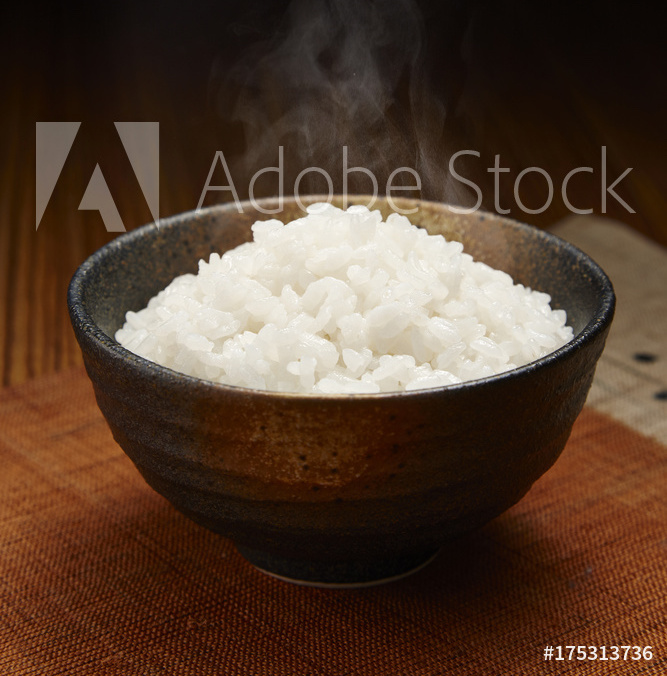
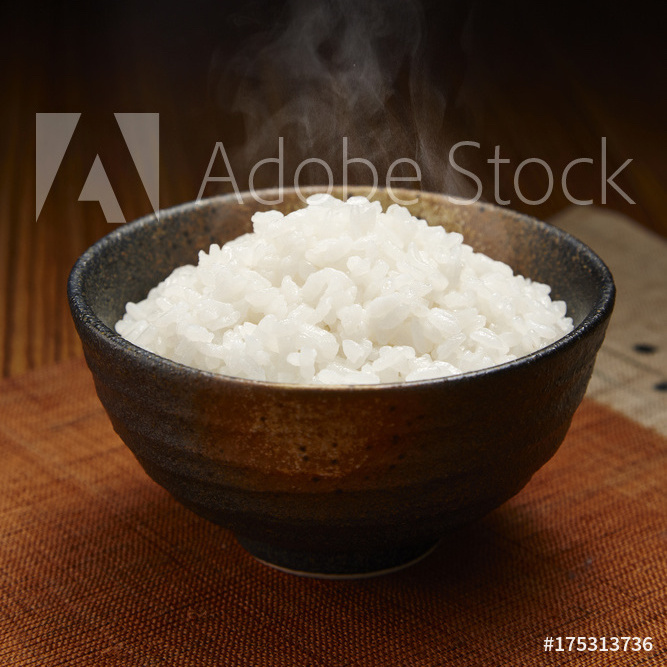
add frame and datetime

diff --git a/pages/index.vue b/pages/index.vue
@@ -1,5 +1,5 @@
 <template>
-  <div id="photoletter">
+  <div id="rice-time">
     <div class="container" v-if="!isGenerated">
       <section class="hero has-text-centered is-fullheight">
         <div class="hero-body">
@@ -7,7 +7,7 @@
             <figure class="image p-5">
               <img src="../assets/images/ricetime.png" />
             </figure>
-            <div class="button is-black" @click="generate">
+            <div class="button is-black has-text-weight-bold" @click="generate">
               check rice.
             </div>
           </div>
@@ -22,13 +22,21 @@
         <div class="container">
           <div class="columns is-centered">
             <div class="column has-text-centered is-half">
-              <img
-                class="box"
-                id="canvasImage"
-                src="../assets/images/rice.jpeg"
-              />
-              <p v-show="uploaded" class="pt-3 pb-6 mb-6">
-                画像を長押しして保存できます
+              <div class="image-wrapper mb-0">
+                <img
+                  class=""
+                  id="canvasImage"
+                  src="../assets/images/rice.jpeg"
+                />
+                <img
+                  class=""
+                  id="canvasFrame"
+                  src="../assets/images/frame.png"
+                />
+              </div>
+
+              <p class="pt-3 pb-6 mb-6 has-text-weight-bold	">
+                {{ displayedTime }}
               </p>
             </div>
           </div>
@@ -46,6 +54,7 @@ import { storage } from "@/plugins/firebase";
 export default {
   data() {
     return {
+      displayedTime: "",
       isGenerationStarted: false,
       isGenerated: false
     };
@@ -58,6 +67,14 @@ export default {
     generate() {
       this.isGenerationStarted = true;
       this.isGenerated = true;
+      var now = new Date();
+      var year = now.getFullYear();
+      var month = now.getMonth() + 1;
+      var day = now.getDate();
+      var hour = now.getHours();
+      var minute = now.getMinutes();
+      this.displayedTime =
+        year + "/" + month + "/" + day + " " + hour + ":" + minute;
       setTimeout(() => {
         this.isGenerationStarted = false;
       }, 4000);
@@ -73,39 +90,16 @@ export default {
 @import "../assets/styles/variables.scss";
 
 * {
-  font-family: "Helvetica Neue", Arial, "Hiragino Kaku Gothic ProN",
+  font-family: "Avenir Next", Arial, "Hiragino Kaku Gothic ProN",
     "Hiragino Sans", Meiryo, sans-serif;
 }
-#photoletter {
+#rice-time {
   color: $main3;
   position: relative;
 
   .hero {
     .hero-body {
       position: relative;
-
-      .icon {
-        position: absolute;
-        bottom: 0;
-      }
-    }
-
-    .hero-foot {
-      .scroll {
-        color: #535353;
-        line-height: 3.5;
-      }
-      .image {
-        animation: vertical 1s ease-in-out infinite alternate;
-      }
-      @keyframes vertical {
-        0% {
-          transform: translateY(0px);
-        }
-        100% {
-          transform: translateY(10px);
-        }
-      }
     }
   }
 
@@ -171,6 +165,28 @@ export default {
     background-color: white;
     height: 100vh;
     z-index: -10;
+
+    .image-wrapper {
+      position: relative;
+      height: 0;
+      padding-bottom: 100%;
+
+      #canvasImage {
+        position: absolute;
+        padding: 10%;
+        top: 0;
+        bottom: 0;
+        left: 0;
+        right: 0;
+      }
+      #canvasFrame {
+        position: absolute;
+        top: 0;
+        bottom: 0;
+        left: 0;
+        right: 0;
+      }
+    }
   }
 }
 </style>

diff --git a/nuxt.config.js b/nuxt.config.js
@@ -7,7 +7,7 @@ export default {
 
   // Global page headers (https://go.nuxtjs.dev/config-head)
   head: {
-    title: "PHOTOLETTER",
+    title: "RICE TIME.",
     meta: [
       { charset: "utf-8" },
       { name: "viewport", content: "width=device-width, initial-scale=1" },
